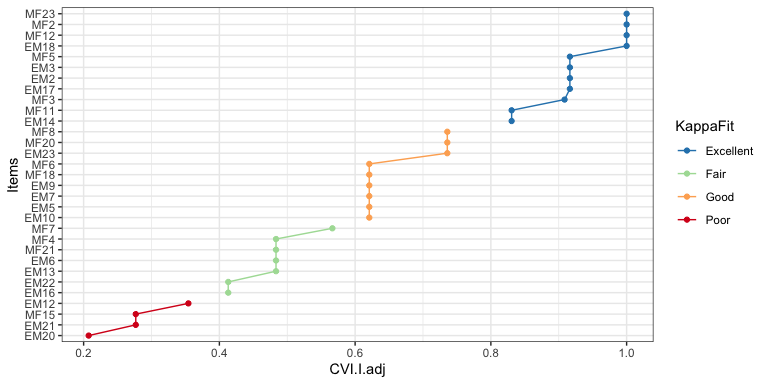
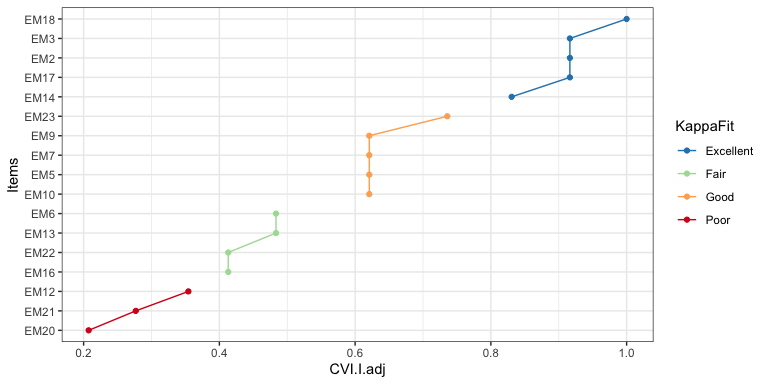
Updated CVR functions

Changed region(s): [[0.0312, 0.0, 0.8438, 0.9062], [0.4688, 0.4688, 0.5, 0.5938]]

diff --git a/README.md b/README.md
@@ -33,7 +33,7 @@ devtools::install_github("tuomaseerola/CVI")
 ```
 
     #> ℹ Loading CVI
-    #> [1] '0.1.0.0'
+    #> [1] '0.1.3.0'
 
 ## Example
 
@@ -63,11 +63,11 @@ We can check and summarise the content with `CVI_check` function.
 ``` r
 FM <- CVI_check(FM)
 #> [1] "No. Experts: 15"
-#> [1] "No. Items: 31"
+#> [1] "No. Items: 17"
 #> [1] "No. Item response options: 4"
 #> [1] "Item response options: Extremely Relevant--Moderately Relevant--Slightly Relevant--Not Relevant"
-#> [1] "Missing responses: 97"
-#> [1] "Total responses: 465"
+#> [1] "Missing responses: 53"
+#> [1] "Total responses: 255"
 ```
 
 We then calculate the content validity of the items. The summary gives
@@ -83,14 +83,14 @@ Items <- CVI_item(FM)
 print(knitr::kable(head(Items),digits=2))
 ```
 
-| Item | Sum |   N | CVI.I | CVI.R | CVI.I.adj | Decision    | KappaFit  |
-|:-----|----:|----:|------:|------:|----------:|:------------|:----------|
-| EM2  |  11 |  12 |  0.92 |  0.83 |      0.92 | Appropriate | Excellent |
-| EM3  |  11 |  12 |  0.92 |  0.83 |      0.92 | Appropriate | Excellent |
-| EM5  |   8 |  12 |  0.67 |  0.33 |      0.62 | Eliminated  | Good      |
-| EM6  |   7 |  12 |  0.58 |  0.17 |      0.48 | Eliminated  | Fair      |
-| EM7  |   8 |  12 |  0.67 |  0.33 |      0.62 | Eliminated  | Good      |
-| EM9  |   8 |  12 |  0.67 |  0.33 |      0.62 | Eliminated  | Good      |
+| Item | Sum |   N | CVI.I | CVI.R | CVI.I.adj | CVIFit      | KappaFit  | CVRFit         |
+|:-----|----:|----:|------:|------:|----------:|:------------|:----------|:---------------|
+| EM2  |  11 |  12 |  0.92 |  0.83 |      0.92 | Appropriate | Excellent | Accept \> 0.67 |
+| EM3  |  11 |  12 |  0.92 |  0.83 |      0.92 | Appropriate | Excellent | Accept \> 0.67 |
+| EM5  |   8 |  12 |  0.67 |  0.33 |      0.62 | Eliminated  | Good      | Reject         |
+| EM6  |   7 |  12 |  0.58 |  0.17 |      0.48 | Eliminated  | Fair      | Reject         |
+| EM7  |   8 |  12 |  0.67 |  0.33 |      0.62 | Eliminated  | Good      | Reject         |
+| EM9  |   8 |  12 |  0.67 |  0.33 |      0.62 | Eliminated  | Good      | Reject         |
 
 We can also visualise the content validity of items using the function
 `CVI_visualise`. The default options show CVI-I.adjusted values for each
@@ -101,17 +101,31 @@ specify other indices as well.
 CVI_visualise(Items) # default CVI.I.adj and Kappa
 ```
 
-<img src="man/figures/README-visualise-1.png" width="100%" />
+<img src="man/figures/README-visualise-1.png" width="80%" />
 
 The content validity for the scale can be obtained from the calculated
-items by `CVI_scale` function. The default returns the S-CIV/Ave
+items by `CVI_scale` function. The default returns the S-CVI/Ave
 (scale-level content validity index based on the average method) but you
-and specify other indices as well.
+can specify other indices as well.
 
 ``` r
 print(CVI_scale(Items))
-#> [1] 0.7140762
+#> [1] 0.6720143
 ```
+
+This *S-CVI/Ave* value of suggest poor overall scale relevance as the
+recommended value should be over 0.80 (Polit & Beck, 2006). If we take
+all items that actually have a good CVI-I fit (CVIFit is `Appropriate`),
+we can recalculate the revised *S-CVI/Ave* value of the scale that has 5
+items.
+
+``` r
+ItemsRelevant <- Items[Items$CVIFit=='Appropriate',]
+print(CVI_scale(ItemsRelevant))
+#> [1] 0.9166667
+```
+
+An excellent *S-CVI/Ave* value for the scale is achieved in this case.
 
 ## References
 
@@ -120,3 +134,7 @@ print(CVI_scale(Items))
 - Polit, D. F. & Beck, C. T. (2006). The content validity index: are you
   sure you know what’s being reported? Critique and recommendations.
   *Research in Nursing & Health, 29(5)*, 489–497.
+- Romero Jeldres, M., Díaz Costa, E., & Faouzi Nadim, T. (2023). A
+  review of Lawshe’s method for calculating content validity in the
+  social sciences. *Frontiers in Education, 8*.
+  <https://www.frontiersin.org/journals/education/articles/10.3389/feduc.2023.1271335>

diff --git a/NEWS.md b/NEWS.md
@@ -1,3 +1,8 @@
-# CVI (development version)
+# CVI 0.1.0
 
 * Initial Github submission.
+
+# CVI 0.1.3
+
+* Added more methods to CVI_item decisions ('Chi', 'Lawshe','Bayes' and 'Exact')
+* Changed demo data
